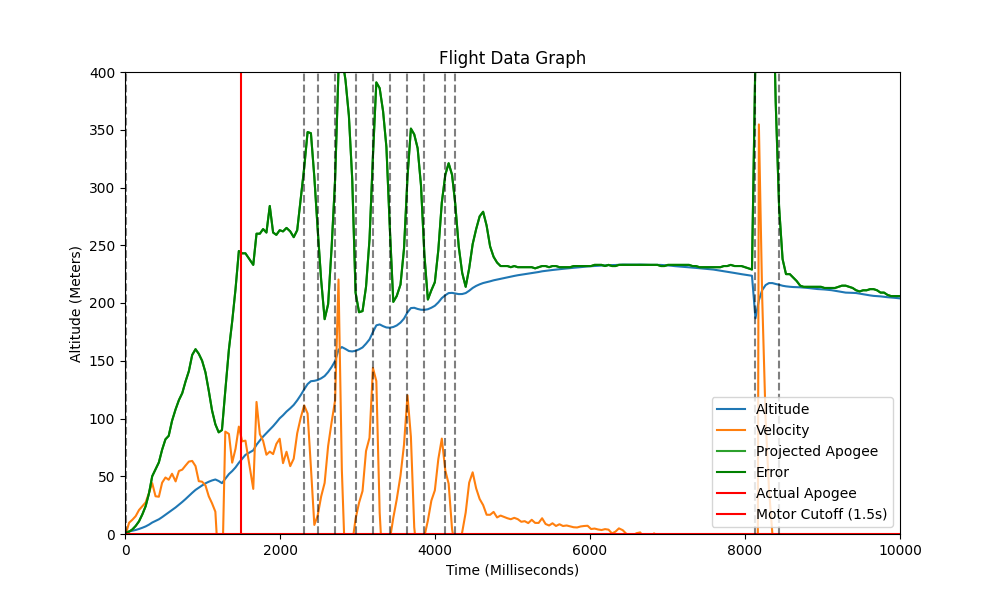
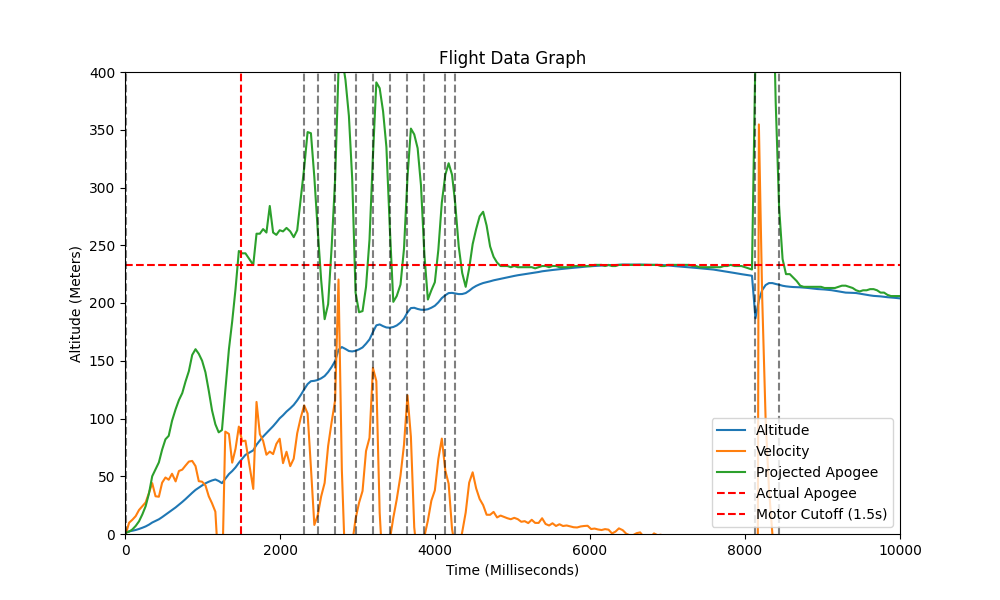
update

diff --git a/Airbrake_Files/Python_Data_Analysis/data-grapher.py b/Airbrake_Files/Python_Data_Analysis/data-grapher.py
@@ -2,10 +2,10 @@ import numpy as np
 import pandas as pd
 import matplotlib.pyplot as plt
 
-actual_apogee = 0; # replace with actual apogee of flight in m
+actual_apogee = 233; # replace with actual apogee of flight in m
 
-filename = '/home/gavin/Documents/Airbrake_Files/Flight_Data/Clean_Data/test7.csv'
-graph_filename = '/home/gavin/Documents/Airbrake_Files/Flight_Data/Graphs/test7.png'
+filename = '/home/gavin/Documents/GitHub/airbrake_files/Airbrake_Files/Flight_Data/Clean_Data/test7.csv'
+graph_filename = '/home/gavin/Documents/GitHub/airbrake_files/Airbrake_Files/Flight_Data/Graphs/test7.png'
 
 df = pd.read_csv(filename, names=['Time', 'Altitude', 'Velocity', 'isDeployed', 'isBurning', 'Projected Apogee'])
 
@@ -18,9 +18,9 @@ plt.figure(figsize=(10, 6))
 plt.plot(df['Time'], df['Altitude'], label='Altitude')
 plt.plot(df['Time'], df['Velocity'], label='Velocity')
 plt.plot(df['Time'], df['Projected Apogee'], label='Projected Apogee')
-plt.plot(df['Time'], df['Error'], label='Error', color='green')
-plt.axhline(y=actual_apogee, color='r', linestyle='-', label='Actual Apogee')
-plt.axvline(x=1500, color='r', linestyle='-', label='Motor Cutoff (1.5s)')
+# plt.plot(df['Time'], df['Error'], label='Error', color='green')
+plt.axhline(y=actual_apogee, color='r', linestyle='--', label='Actual Apogee')
+plt.axvline(x=1500, color='r', linestyle='--', label='Motor Cutoff (1.5s)')
 
 deploy_changes = df[df['isDeployed'].diff() != 0]
 for time in deploy_changes['Time']:
